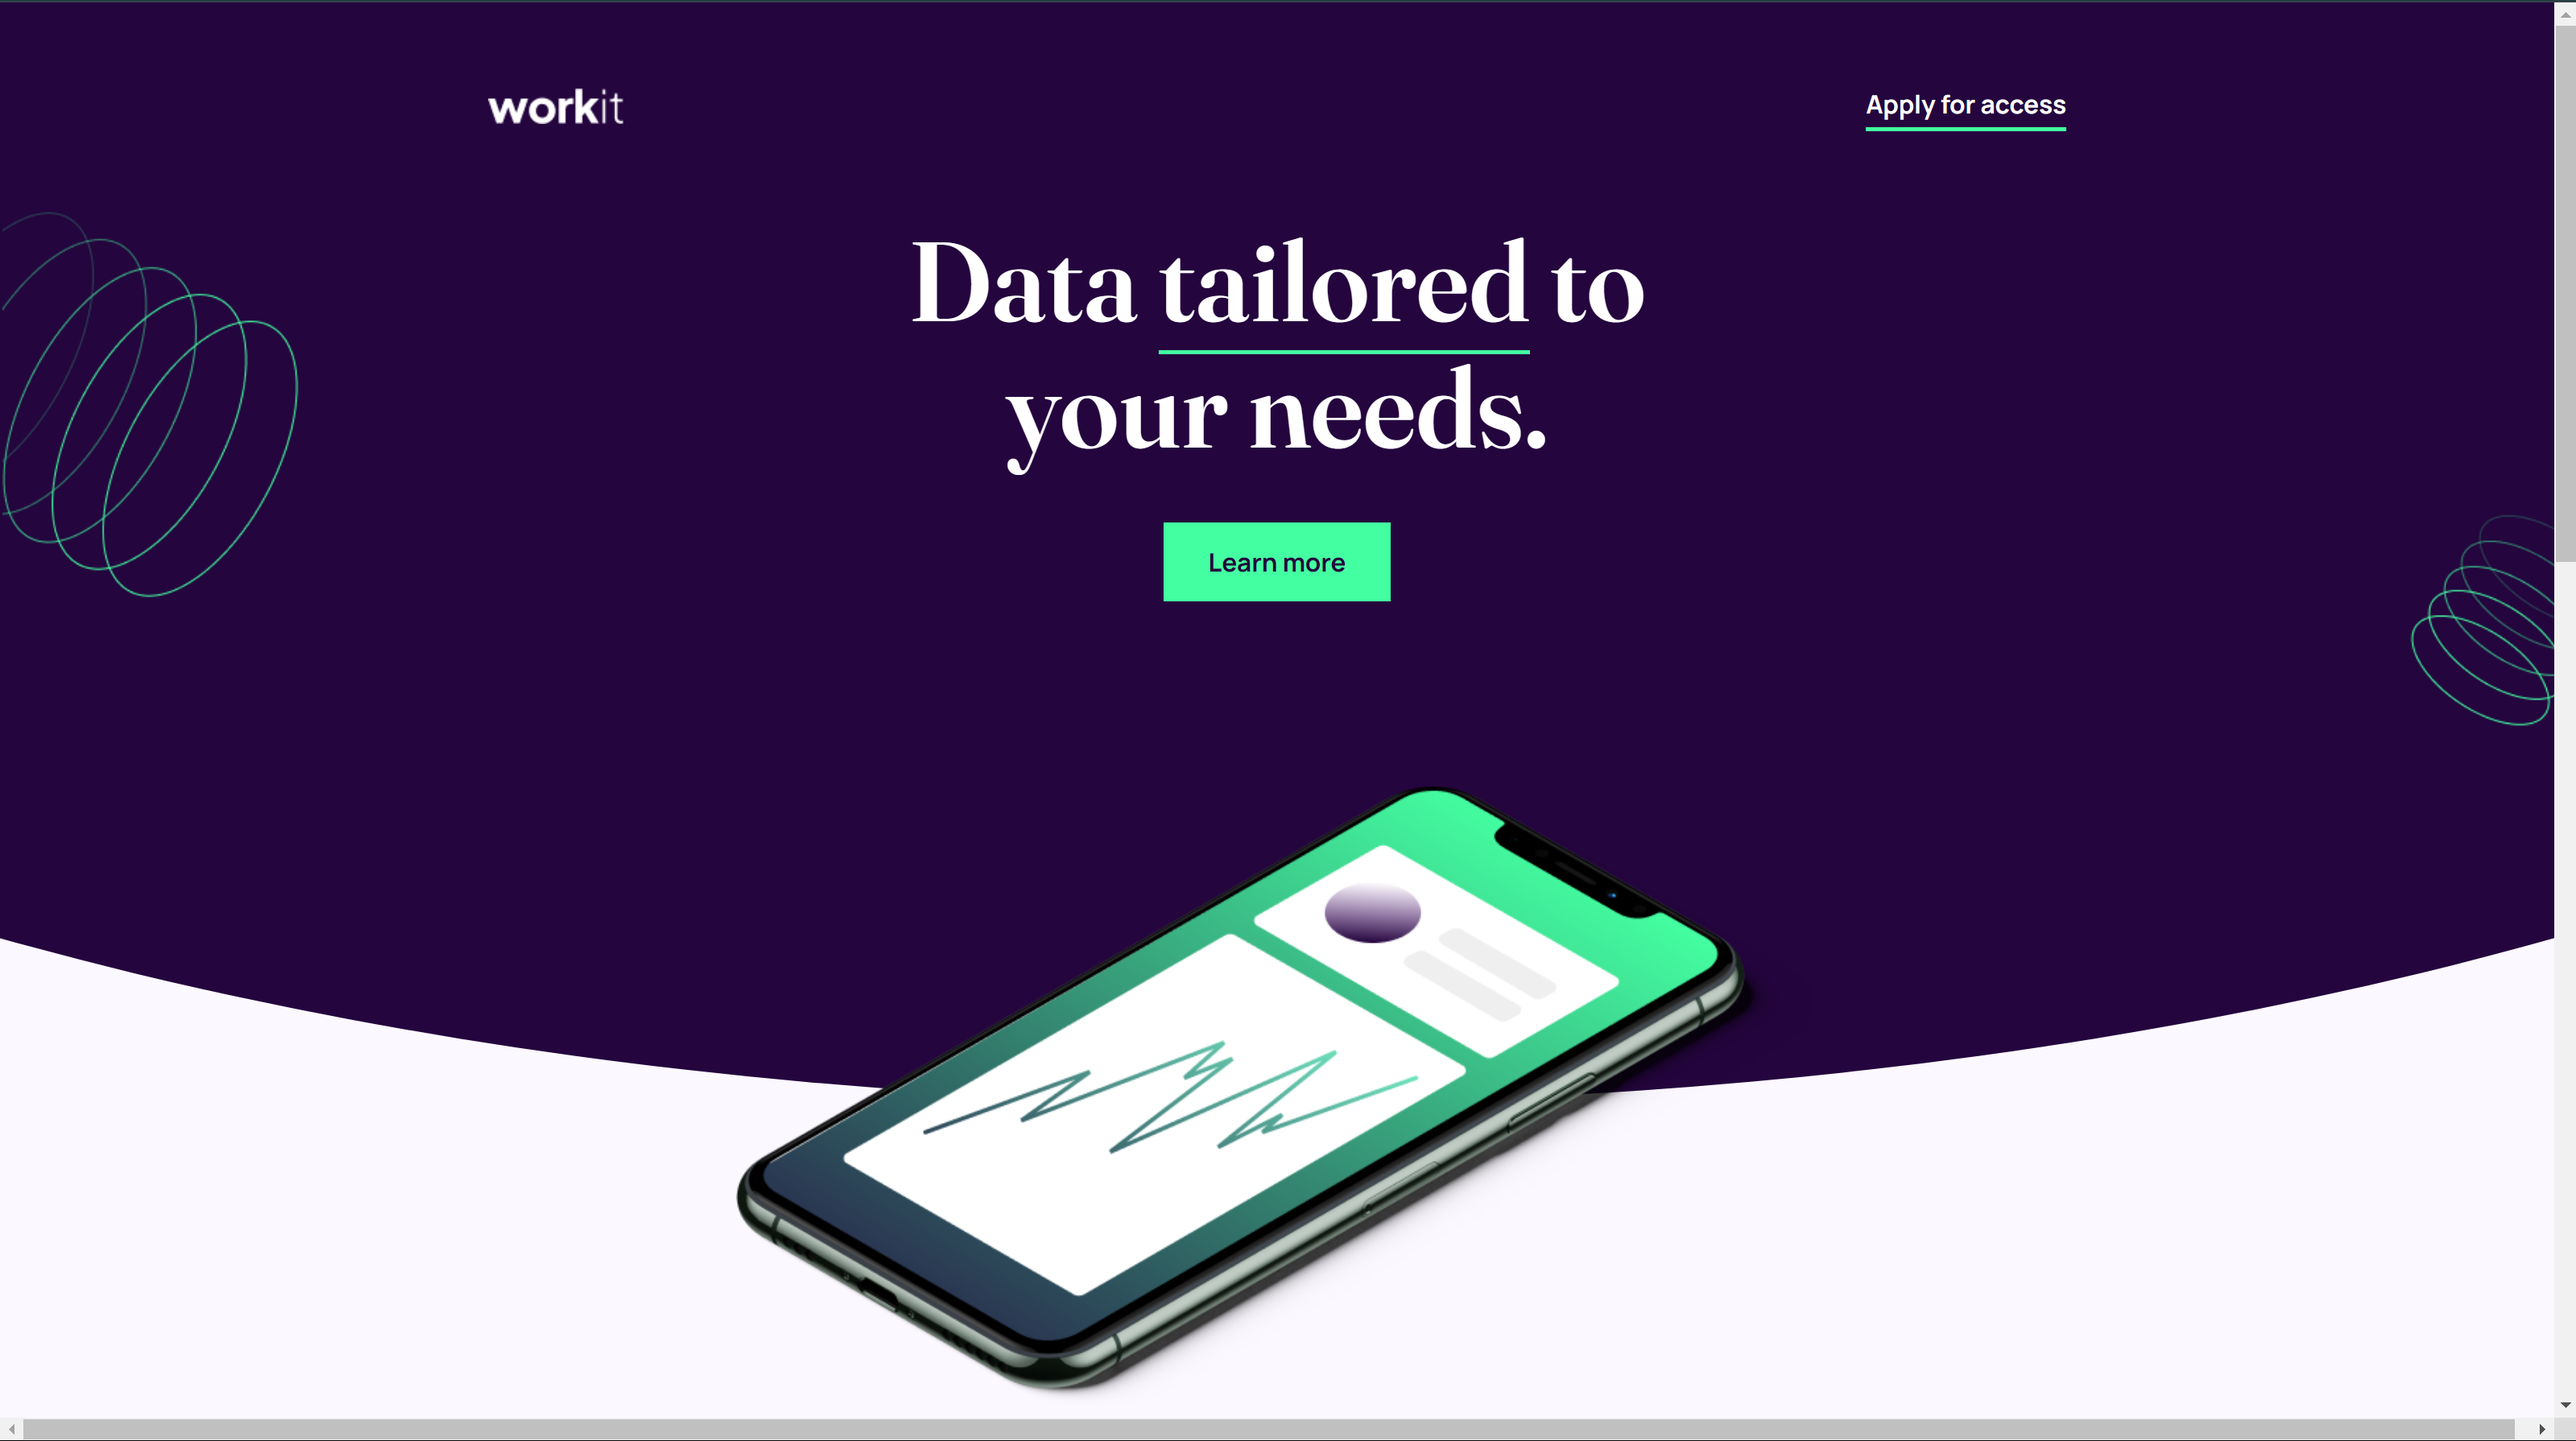
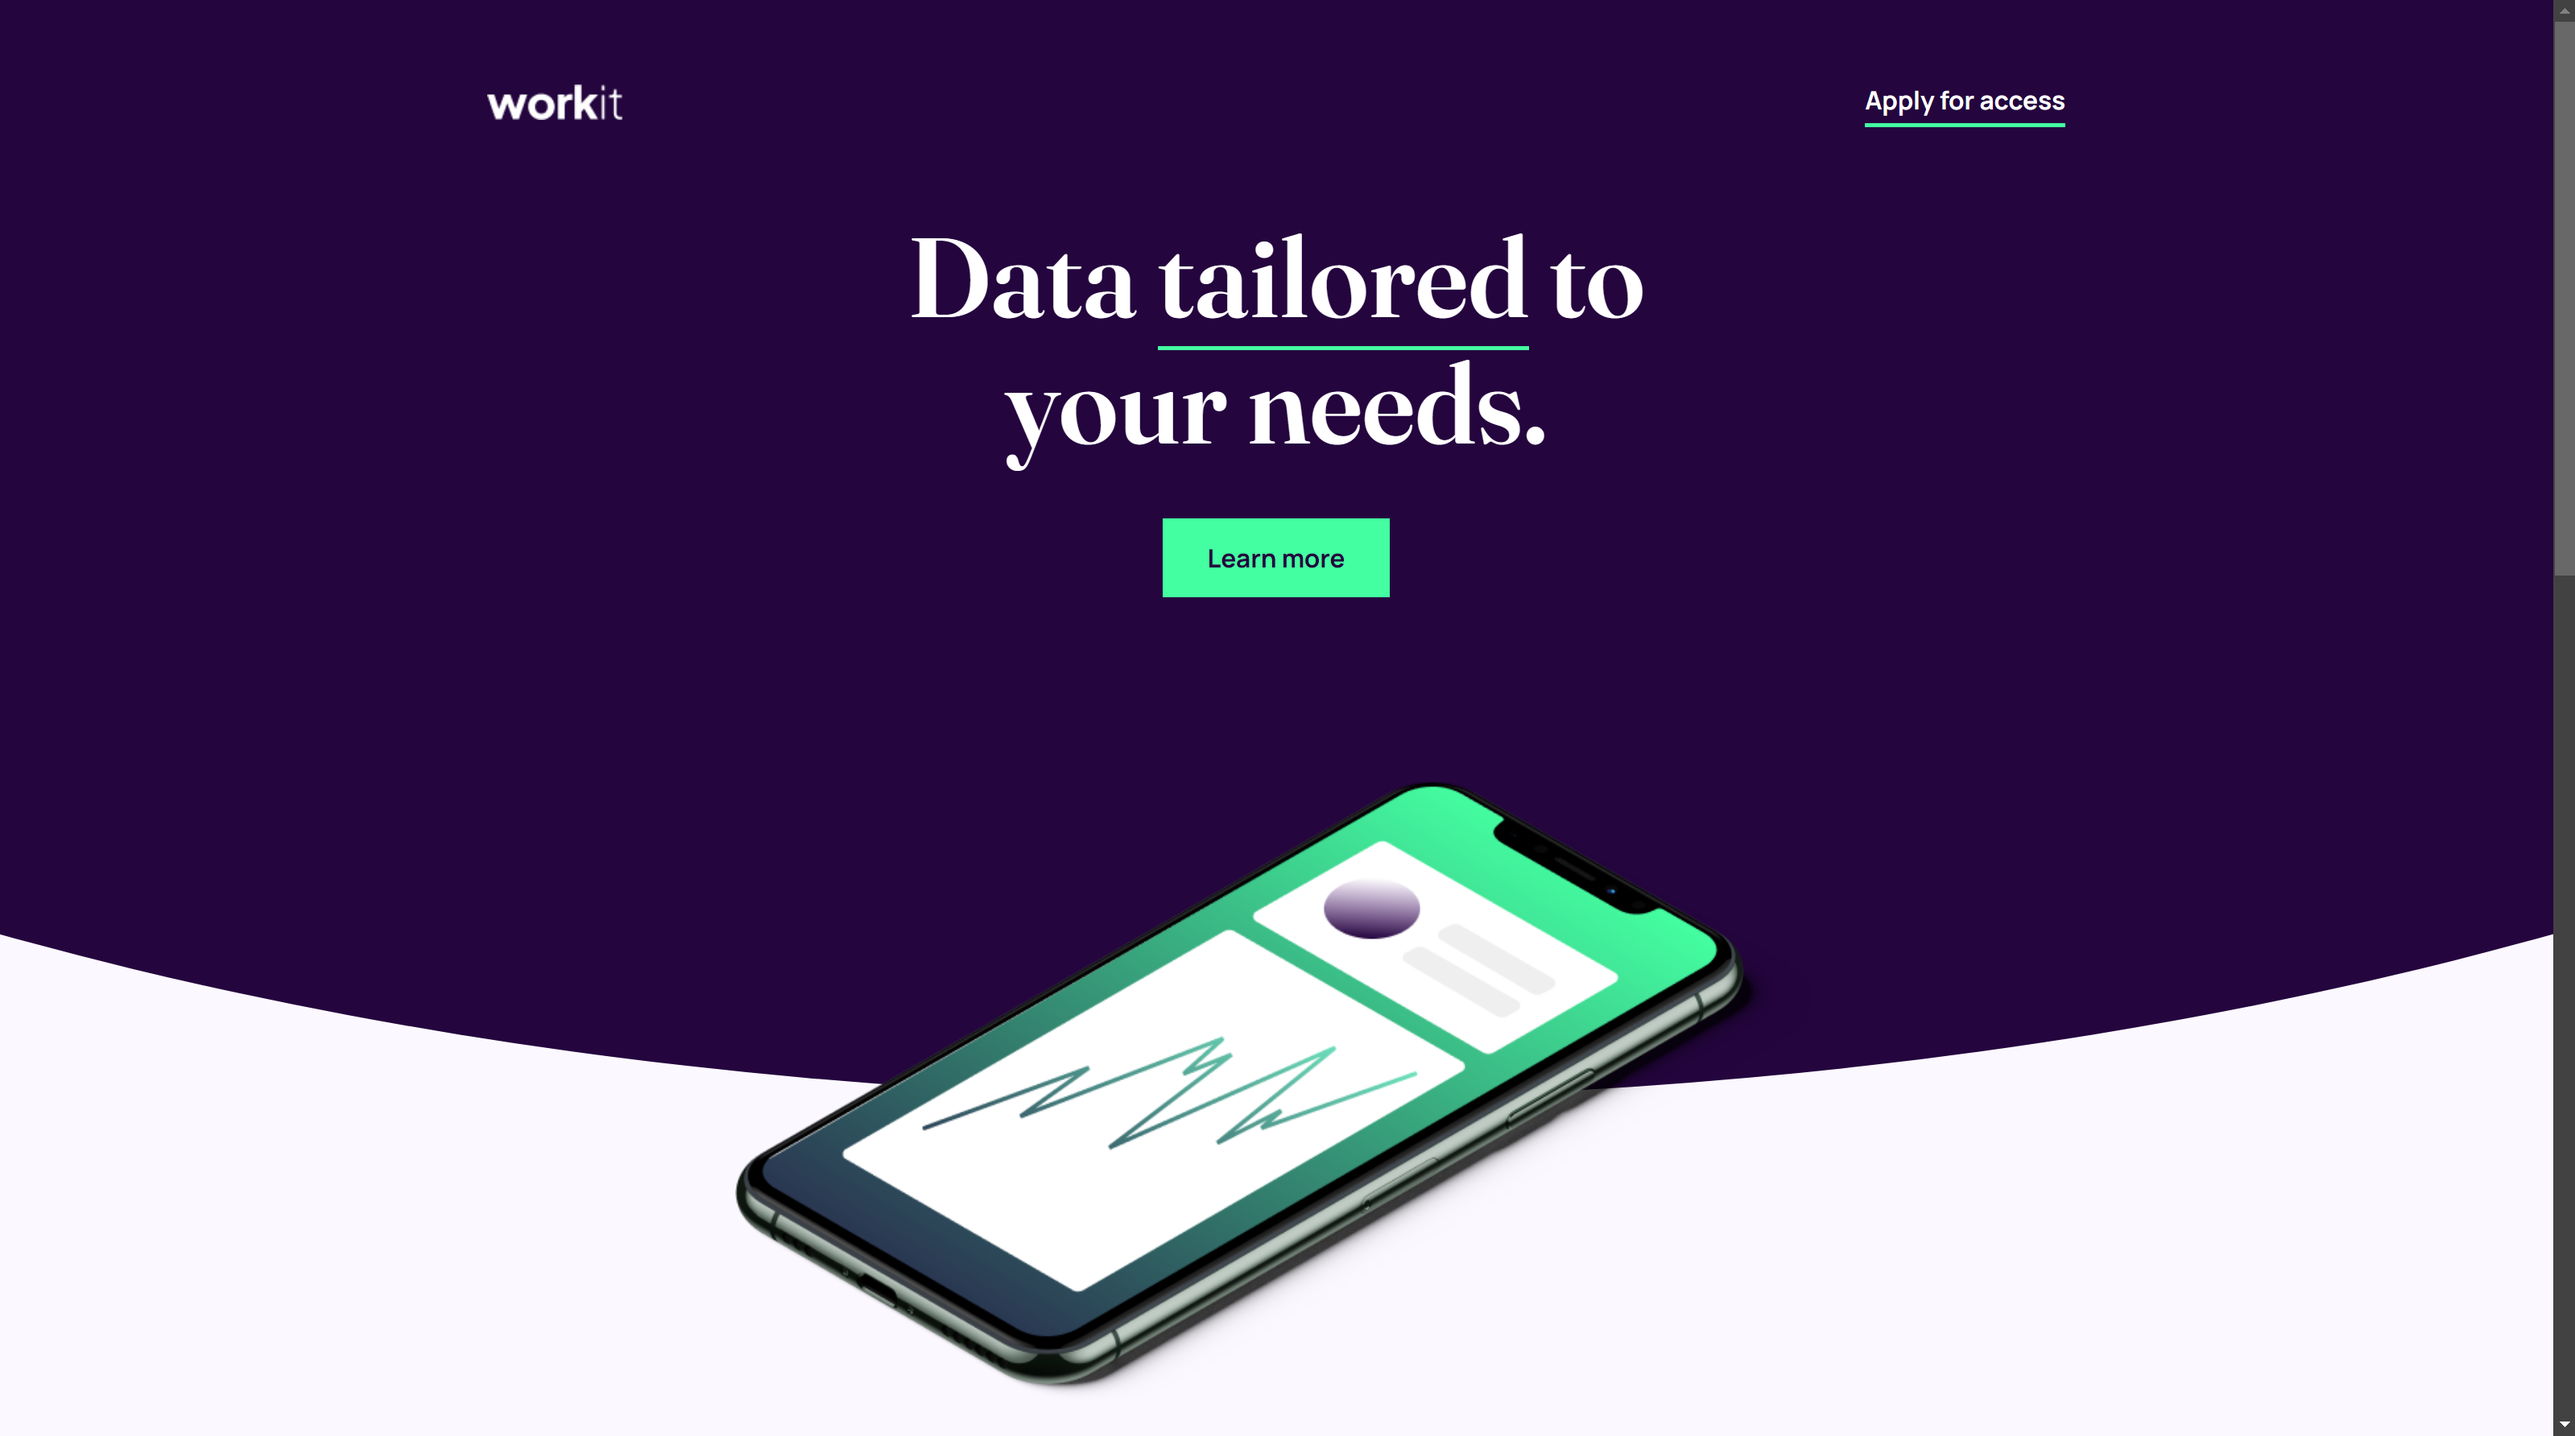
updated workit landing page

diff --git a/Portfolio/My-Portfolio/Workit-Landing-Page/assets/css/style.css b/Portfolio/My-Portfolio/Workit-Landing-Page/assets/css/style.css
@@ -62,17 +62,11 @@ body {
 }
 
 .left-loop {
-    display: block;
-    position: relative;
-    top: -300px;
-    left: -785px;
+    display: none;
 }
 
 .right-loop {
-    display: block;
-    position: relative;
-    top: -400px;
-    right: -855px;
+    display: none;
 }
 
 .header-title {
@@ -241,10 +235,7 @@ body {
 }
 
 .lower-loop {
-    display: block;
-    position: relative;
-    top: -90px;
-    right: -350px;
+    display: none;
 }
 
 .footer {
@@ -272,7 +263,7 @@ body {
 
 @media only screen and (max-width: 1275px) {
     .header {
-        clip-path: ellipse(100% 65% at 50% 0%);
+        clip-path: ellipse(110% 60% at 50% 0%);
     }
 
     .container {
@@ -284,17 +275,11 @@ body {
     }
 
     .left-loop {
-        display: block;
-        position: relative;
-        top: -300px;
-        left: -455px;
+        display: none;
     }
 
     .right-loop {
-        display: block;
-        position: relative;
-        top: -400px;
-        right: -485px;
+        display: none;
     }
 
     .header-title {
@@ -402,10 +387,7 @@ body {
     }
 
     .lower-loop {
-        display: block;
-        position: relative;
-        top: -50px;
-        right: -250px;
+        display: none;
     }
 }
 
@@ -452,7 +434,7 @@ body {
     .hero-container {
         position: relative;
         width: 80%;
-        margin: -65% 0 0 15%;
+        margin: -70% 0 0 15%;
     }
 
     .phone-illustration {

diff --git a/Portfolio/Workit-Landing-Page/assets/css/style.css b/Portfolio/Workit-Landing-Page/assets/css/style.css
@@ -62,17 +62,11 @@ body {
 }
 
 .left-loop {
-    display: block;
-    position: relative;
-    top: -300px;
-    left: -785px;
+    display: none;
 }
 
 .right-loop {
-    display: block;
-    position: relative;
-    top: -400px;
-    right: -855px;
+    display: none;
 }
 
 .header-title {
@@ -241,10 +235,7 @@ body {
 }
 
 .lower-loop {
-    display: block;
-    position: relative;
-    top: -90px;
-    right: -350px;
+    display: none;
 }
 
 .footer {
@@ -272,7 +263,7 @@ body {
 
 @media only screen and (max-width: 1275px) {
     .header {
-        clip-path: ellipse(100% 65% at 50% 0%);
+        clip-path: ellipse(110% 60% at 50% 0%);
     }
 
     .container {
@@ -284,17 +275,11 @@ body {
     }
 
     .left-loop {
-        display: block;
-        position: relative;
-        top: -300px;
-        left: -455px;
+        display: none;
     }
 
     .right-loop {
-        display: block;
-        position: relative;
-        top: -400px;
-        right: -485px;
+        display: none;
     }
 
     .header-title {
@@ -402,10 +387,7 @@ body {
     }
 
     .lower-loop {
-        display: block;
-        position: relative;
-        top: -50px;
-        right: -250px;
+        display: none;
     }
 }
 
@@ -452,7 +434,7 @@ body {
     .hero-container {
         position: relative;
         width: 80%;
-        margin: -65% 0 0 15%;
+        margin: -70% 0 0 15%;
     }
 
     .phone-illustration {

diff --git a/Workit-Landing-Page/assets/css/style.css b/Workit-Landing-Page/assets/css/style.css
@@ -62,17 +62,11 @@ body {
 }
 
 .left-loop {
-    display: block;
-    position: relative;
-    top: -300px;
-    left: -785px;
+    display: none;
 }
 
 .right-loop {
-    display: block;
-    position: relative;
-    top: -400px;
-    right: -855px;
+    display: none;
 }
 
 .header-title {
@@ -241,10 +235,7 @@ body {
 }
 
 .lower-loop {
-    display: block;
-    position: relative;
-    top: -90px;
-    right: -350px;
+    display: none;
 }
 
 .footer {
@@ -272,7 +263,7 @@ body {
 
 @media only screen and (max-width: 1275px) {
     .header {
-        clip-path: ellipse(100% 65% at 50% 0%);
+        clip-path: ellipse(110% 60% at 50% 0%);
     }
 
     .container {
@@ -284,17 +275,11 @@ body {
     }
 
     .left-loop {
-        display: block;
-        position: relative;
-        top: -300px;
-        left: -455px;
+        display: none;
     }
 
     .right-loop {
-        display: block;
-        position: relative;
-        top: -400px;
-        right: -485px;
+        display: none;
     }
 
     .header-title {
@@ -402,10 +387,7 @@ body {
     }
 
     .lower-loop {
-        display: block;
-        position: relative;
-        top: -50px;
-        right: -250px;
+        display: none;
     }
 }
 
@@ -452,7 +434,7 @@ body {
     .hero-container {
         position: relative;
         width: 80%;
-        margin: -65% 0 0 15%;
+        margin: -70% 0 0 15%;
     }
 
     .phone-illustration {
